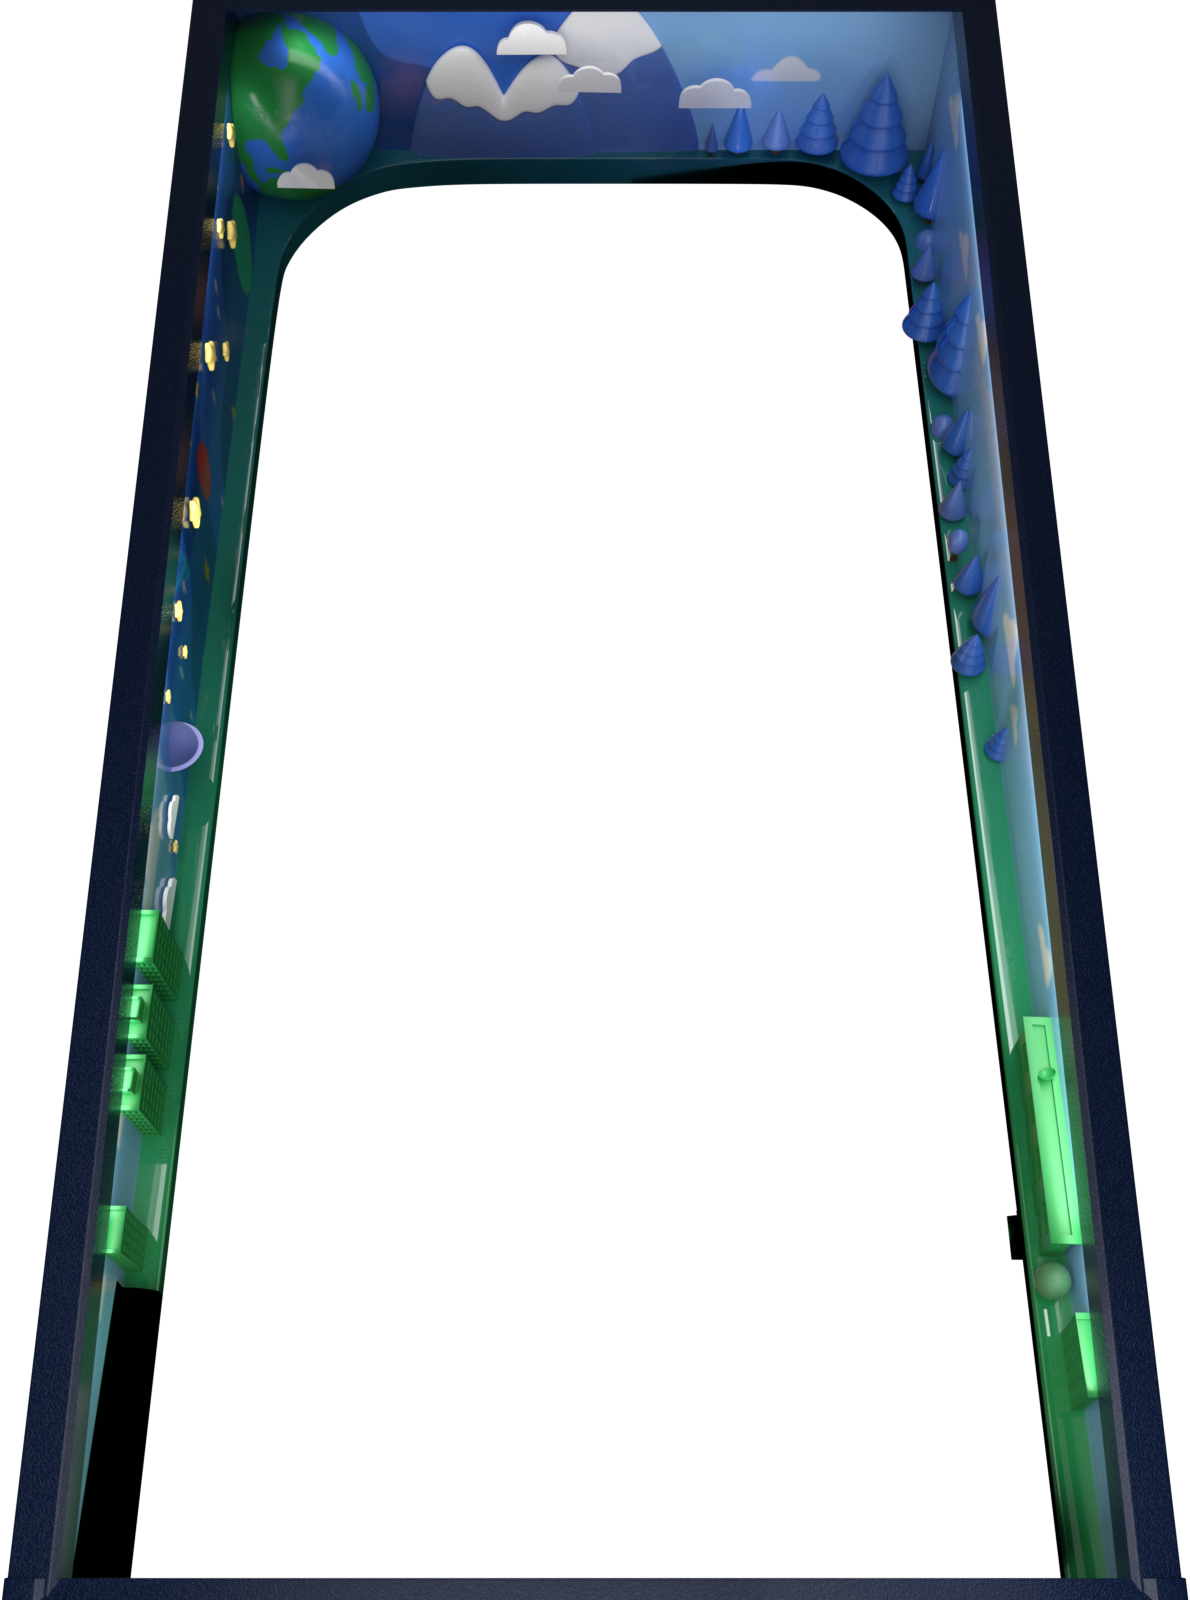
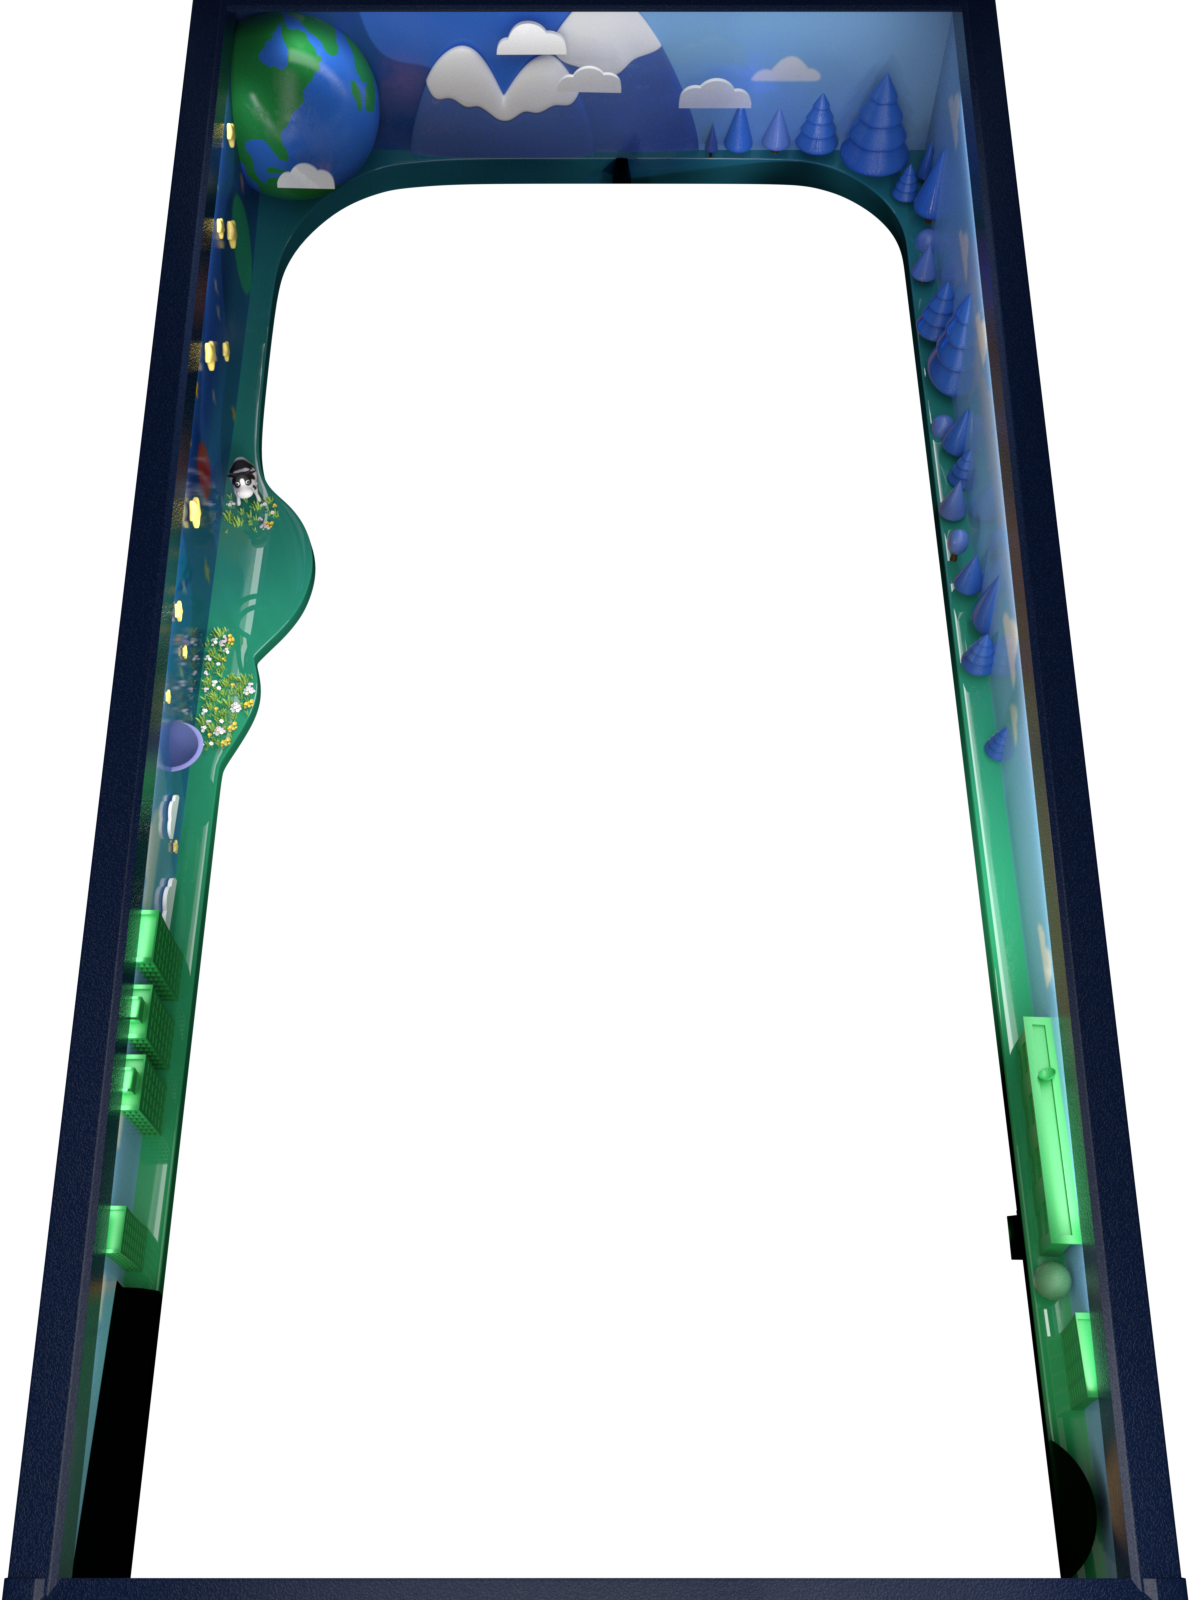
refactor: add new boundary curve (#238)
* refactor: add new asset and update fixtures

* chore: clean up fixtures

diff --git a/packages/pinball_components/lib/src/components/boundaries.dart b/packages/pinball_components/lib/src/components/boundaries.dart
@@ -102,28 +102,59 @@ class _OuterBoundary extends BodyComponent with InitialPosition {
         Vector2(3.6, -70.2),
         Vector2(-14.1, -70.2),
       );
-    final topWallFixtureDef = FixtureDef(topWall);
 
     final topLeftCurve = BezierCurveShape(
       controlPoints: [
-        Vector2(-32.3, -57.2),
+        topWall.vertex1,
         Vector2(-31.5, -69.9),
-        Vector2(-14.1, -70.2),
+        Vector2(-32.3, -57.2),
       ],
     );
-    final topLeftCurveFixtureDef = FixtureDef(topLeftCurve);
 
-    final leftWall = EdgeShape()
+    final topLeftWall = EdgeShape()
       ..set(
-        Vector2(-32.3, -57.2),
+        topLeftCurve.vertices.last,
+        Vector2(-33.5, -44),
+      );
+
+    final upperLeftWallCurve = BezierCurveShape(
+      controlPoints: [
+        topLeftWall.vertex1,
+        Vector2(-33.9, -40.7),
+        Vector2(-32.5, -39),
+      ],
+    );
+
+    final middleLeftWallCurve = BezierCurveShape(
+      controlPoints: [
+        upperLeftWallCurve.vertices.last,
+        Vector2(-23.2, -31.4),
+        Vector2(-33.9, -21.8),
+      ],
+    );
+
+    final lowerLeftWallCurve = BezierCurveShape(
+      controlPoints: [
+        middleLeftWallCurve.vertices.last,
+        Vector2(-32.4, -17.6),
+        Vector2(-37.3, -11),
+      ],
+    );
+
+    final bottomLeftWall = EdgeShape()
+      ..set(
+        lowerLeftWallCurve.vertices.last,
         Vector2(-43.9, 41.8),
       );
-    final leftWallFixtureDef = FixtureDef(leftWall);
 
     return [
-      topWallFixtureDef,
-      topLeftCurveFixtureDef,
-      leftWallFixtureDef,
+      FixtureDef(topWall),
+      FixtureDef(topLeftCurve),
+      FixtureDef(topLeftWall),
+      FixtureDef(upperLeftWallCurve),
+      FixtureDef(middleLeftWallCurve),
+      FixtureDef(lowerLeftWallCurve),
+      FixtureDef(bottomLeftWall),
     ];
   }
 
